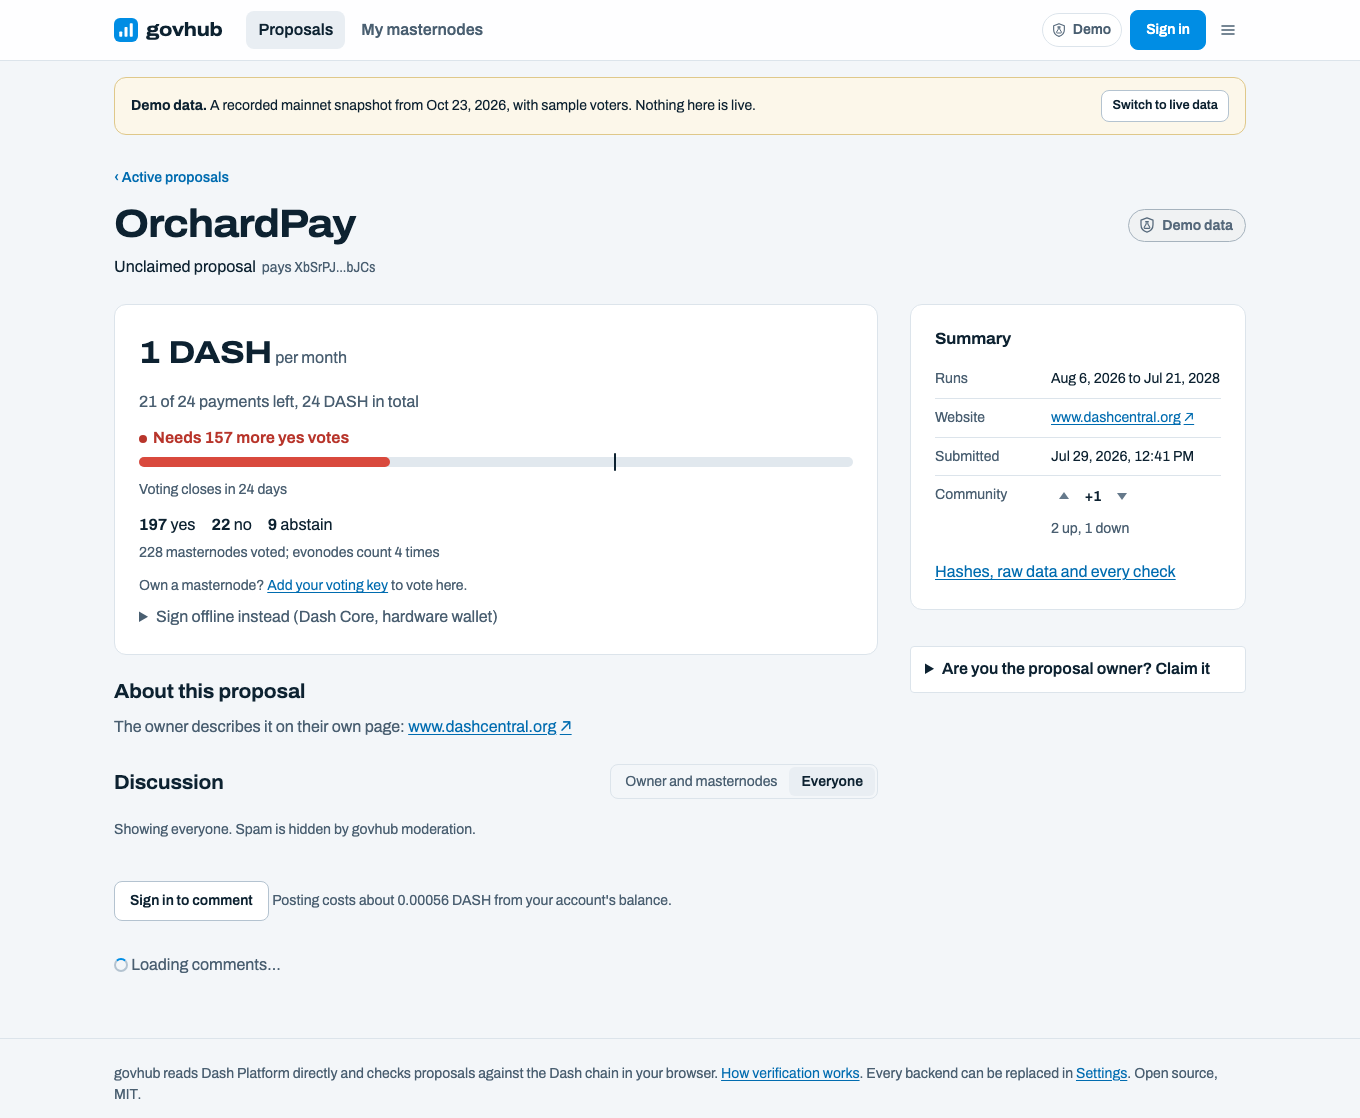
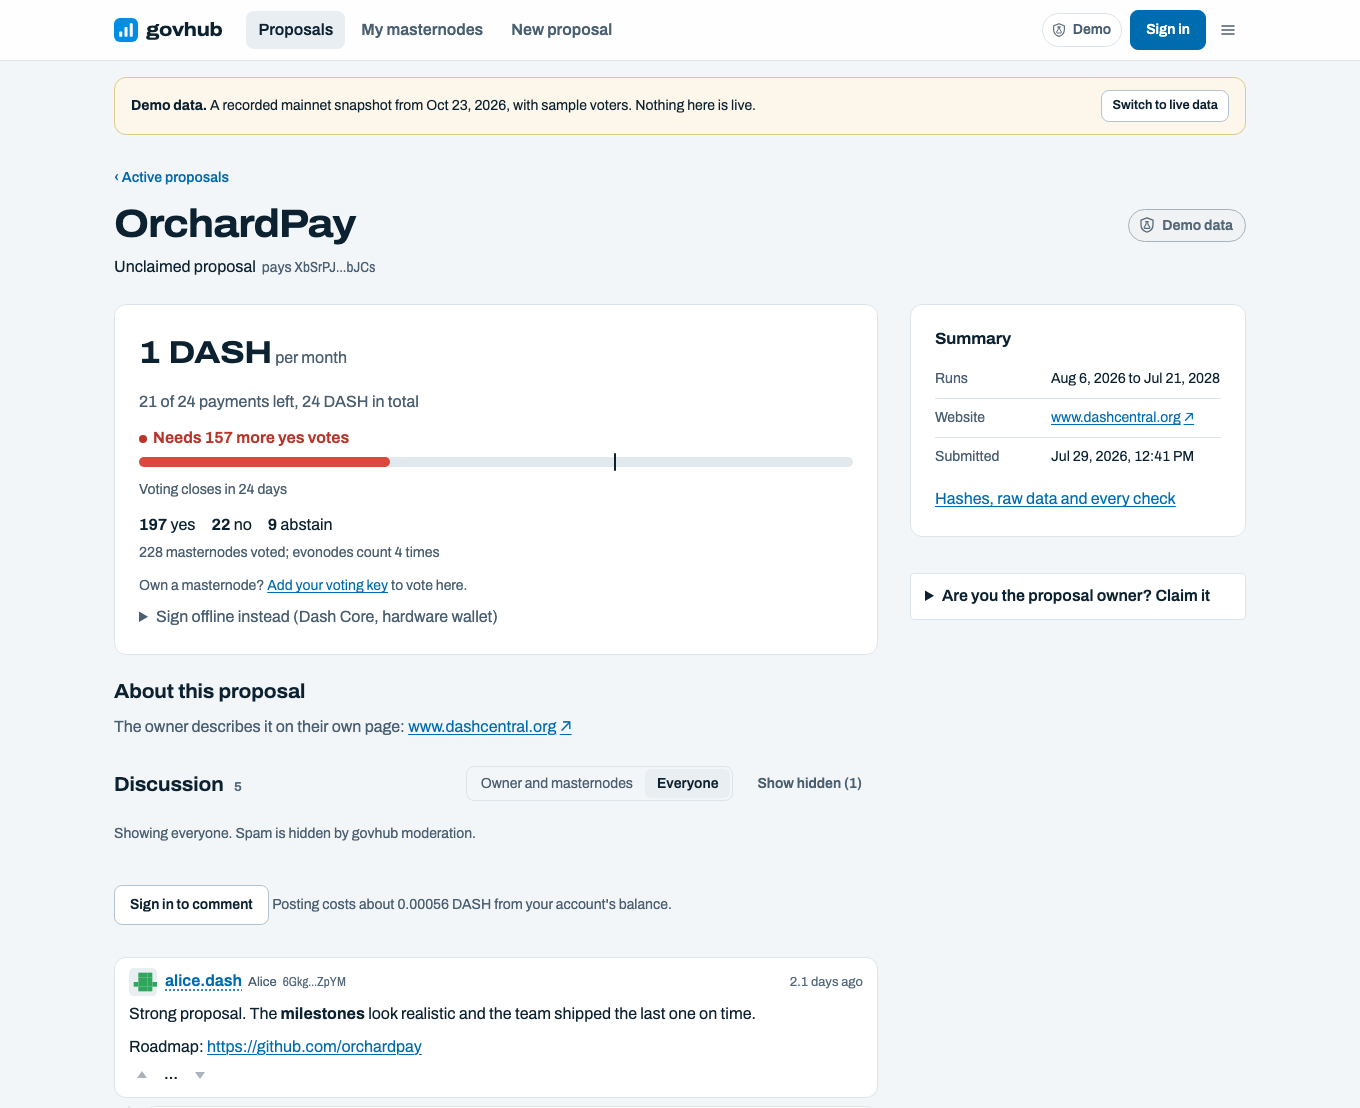
feat(web)!: remove proposal community votes
The owner decided the only voting on a proposal is the masternode network
vote. Remove the "Community" up/down row from the proposal Summary card,
its CSS and fixture reactions, and narrow the shared reaction code
(forum ops.react, targetB64, REACTION_KIND, useReactions) to comment
targets. Comment up/down reactions are unchanged. The forum contract's
reaction document type is untouched.

Docs: PLAN notes the removal; TRUST, DESIGN and the contracts README no
longer describe proposal community votes.

diff --git a/apps/web/src/ui/useReactions.ts b/apps/web/src/ui/useReactions.ts
@@ -1,4 +1,4 @@
-// Reactions on a set of targets (a proposal, or the comments on screen): read with F6 (paged, 4 targets in flight),
+// Reactions on a set of targets (the comments on screen): read with F6 (paged, 4 targets in flight),
 // scored client-side, and voted on through the session with local updates so the UI does not wait for a node
 // that lags behind the write. Each target is read once per data source: a growing set (more comments shown) reads only the
 // new targets. F6 stays one query per target: no PV13 index takes an `in` over targets for every author (`in` must be on an
@@ -10,17 +10,15 @@ import { useApp } from '../app/context.tsx';
 import { useForum } from '../app/forum.tsx';
 import { errText } from '../lib/format.ts';
 
-export type Target = { govHash: string } | { commentId: string };
-const keyOf = (t: Target) => ('govHash' in t ? t.govHash : t.commentId);
-const hexOf = (t: Target) => ('govHash' in t ? t.govHash : idToHex(t.commentId));
-const kindOf = (t: Target) => ('govHash' in t ? REACTION_KIND.proposal : REACTION_KIND.comment);
+type Target = { commentId: string };
+const hexOf = (t: Target) => idToHex(t.commentId);
 
 export function useReactions(targets: readonly Target[]) {
   const { source } = useApp();
   const { forum, session, write, moderation } = useForum();
   const [byKey, setByKey] = useState(new Map<string, Reaction[]>());
   const [error, setError] = useState<string | null>(null);
-  const keys = targets.map(keyOf).join(',');
+  const keys = targets.map((t) => t.commentId).join(',');
   /** targets read (or being read) from this data source */
   const requested = useRef<{ forum: typeof forum; keys: Set<string> }>({ forum, keys: new Set() });
 
@@ -30,17 +28,17 @@ export function useReactions(targets: readonly Target[]) {
       setByKey(new Map());
     }
     const asked = requested.current;
-    const todo = targets.filter((t) => !asked.keys.has(keyOf(t)));
+    const todo = targets.filter((t) => !asked.keys.has(t.commentId));
     if (todo.length === 0) return;
-    for (const t of todo) asked.keys.add(keyOf(t));
+    for (const t of todo) asked.keys.add(t.commentId);
     setError(null);
     // Per target: one failed read must not drop the others' results.
     mapLimit(todo, 4, async (t) => {
       try {
-        return { key: keyOf(t), reactions: await forum.reader.reactions(targetB64(t)) };
+        return { key: t.commentId, reactions: await forum.reader.reactions(targetB64(t)) };
       } catch (e) {
-        asked.keys.delete(keyOf(t)); // read again when the target set next changes
-        return { key: keyOf(t), error: e };
+        asked.keys.delete(t.commentId); // read again when the target set next changes
+        return { key: t.commentId, error: e };
       }
     }).then((results) => {
       if (requested.current !== asked) return;
@@ -56,8 +54,9 @@ export function useReactions(targets: readonly Target[]) {
     const out = new Map<string, Score>();
     for (const t of targets) {
       // A target not read yet has no score: voting then would create a second reaction instead of flipping the first.
-      if (!byKey.has(keyOf(t))) continue;
-      out.set(keyOf(t), score(byKey.get(keyOf(t)) ?? [], { kind: kindOf(t), target: hexOf(t), viewer: session?.identityId ?? null, exclude: moderation.index.identityHidden }));
+      const reactions = byKey.get(t.commentId);
+      if (!reactions) continue;
+      out.set(t.commentId, score(reactions, { kind: REACTION_KIND.comment, target: hexOf(t), viewer: session?.identityId ?? null, exclude: moderation.index.identityHidden }));
     }
     return out;
     // eslint-disable-next-line react-hooks/exhaustive-deps
@@ -66,14 +65,14 @@ export function useReactions(targets: readonly Target[]) {
   const vote = useCallback(
     async (t: Target, value: 1 | -1) => {
       if (!session) throw new Error('sign in to vote');
-      const k = keyOf(t);
+      const k = t.commentId;
       const mine = scores.get(k)?.mine;
       const op = forum.ops.react(t, value, mine);
       const r = await write(op);
       const now = source.now() * 1000 || Date.now();
       setByKey((m) => {
         const list = (m.get(k) ?? []).filter((x) => x.ownerId !== session.identityId);
-        if (op.action !== 'delete') list.push({ id: r.id, ownerId: session.identityId, target: hexOf(t), kind: kindOf(t), value, revision: r.revision ?? 1, createdAt: mine?.createdAt ?? now, updatedAt: now });
+        if (op.action !== 'delete') list.push({ id: r.id, ownerId: session.identityId, target: hexOf(t), kind: REACTION_KIND.comment, value, revision: r.revision ?? 1, createdAt: mine?.createdAt ?? now, updatedAt: now });
         return new Map(m).set(k, list);
       });
     },

diff --git a/packages/forum/test/data.test.ts b/packages/forum/test/data.test.ts
@@ -75,7 +75,7 @@ describe('writes and reads through the linted queries', () => {
     const c = ops.comment(H, 'x');
     expect(c.action === 'create' && typeof c.data.$createdAt).toBe('number');
     expect(c.action === 'create' && c.data.$updatedAt).toBeUndefined();
-    const r = ops.react({ govHash: H }, 1);
+    const r = ops.react({ commentId: ALICE }, 1);
     expect(r.action === 'create' && typeof r.data.$updatedAt).toBe('number');
     const p = ops.profile({ displayName: 'a' });
     expect(p.action === 'create' && p.data.$createdAt).toBeUndefined();
@@ -103,22 +103,22 @@ describe('writes and reads through the linted queries', () => {
     expect(clear.action).toBe('delete');
     store.apply(BOB, clear);
     expect(score(await reader.reactions(target), { kind: 1, target: tHex, viewer: BOB }).mine).toBeUndefined();
-    const mine = await reader.myReactions(ALICE, [target, targetB64({ govHash: H })]);
+    const mine = await reader.myReactions(ALICE, [target, targetB64({ commentId: ALICE })]);
     expect([...mine.keys()]).toEqual([tHex]);
   });
 
   it('score ignores other kinds and targets, keeps one per owner and can exclude blocked owners (never the viewer)', () => {
     const base = { id: 'x', revision: 1, createdAt: 1, updatedAt: 1 };
     const rs = [
-      { ...base, ownerId: ALICE, target: H, kind: 2, value: 1 as const },
-      { ...base, ownerId: ALICE, target: H, kind: 2, value: -1 as const, updatedAt: 5 },
-      { ...base, ownerId: BOB, target: H, kind: 2, value: 1 as const },
-      { ...base, ownerId: MOD, target: H, kind: 1, value: 1 as const },
-      { ...base, ownerId: MOD, target: H2, kind: 2, value: 1 as const },
+      { ...base, ownerId: ALICE, target: H, kind: 1, value: 1 as const },
+      { ...base, ownerId: ALICE, target: H, kind: 1, value: -1 as const, updatedAt: 5 },
+      { ...base, ownerId: BOB, target: H, kind: 1, value: 1 as const },
+      { ...base, ownerId: MOD, target: H, kind: 2, value: 1 as const }, // a retired kind (proposal community vote) is ignored
+      { ...base, ownerId: MOD, target: H2, kind: 1, value: 1 as const },
     ];
-    expect(score(rs, { kind: 2, target: H })).toMatchObject({ up: 1, down: 1 });
-    expect(score(rs, { kind: 2, target: H, exclude: (o) => o === BOB })).toMatchObject({ up: 0, down: 1 });
-    expect(score(rs, { kind: 2, target: H, viewer: BOB, exclude: (o) => o === BOB })).toMatchObject({ up: 1, down: 1 });
+    expect(score(rs, { kind: 1, target: H })).toMatchObject({ up: 1, down: 1 });
+    expect(score(rs, { kind: 1, target: H, exclude: (o) => o === BOB })).toMatchObject({ up: 0, down: 1 });
+    expect(score(rs, { kind: 1, target: H, viewer: BOB, exclude: (o) => o === BOB })).toMatchObject({ up: 1, down: 1 });
   });
 
   it('profiles, claims, posts, blocks and subscriptions round-trip', async () => {

diff --git a/apps/web/src/pages/ProposalPage.tsx b/apps/web/src/pages/ProposalPage.tsx
@@ -5,7 +5,6 @@ import { useMemo, useState } from 'react';
 import { Link, useParams } from 'react-router-dom';
 import { urlClaimIdentity } from '@govhub/verify';
 import { useApp } from '../app/context.tsx';
-import { useForum } from '../app/forum.tsx';
 import { Discussion } from '../ui/Discussion.tsx';
 import { ErrorBoundary } from '../ui/ErrorBoundary.tsx';
 import { ReadError } from '../ui/ReadError.tsx';
@@ -13,12 +12,9 @@ import { FundingMeter } from '../ui/FundingMeter.tsx';
 import { LameDuckPageStatus } from '../ui/LameDuck.tsx';
 import { StartsLaterPageStatus } from '../ui/StartsLater.tsx';
 import { ClaimPanel, OwnerPost, OwnerValue, RejectedClaims, useOwnership, useOwnerPost } from '../ui/Ownership.tsx';
-import { openSignIn } from '../ui/SignIn.tsx';
 import { TrustBadge } from '../ui/trust/TrustBadge.tsx';
 import { useProposalTrust } from '../ui/trust/useProposalTrust.ts';
 import { VerificationDrawer } from '../ui/trust/VerificationDrawer.tsx';
-import { useReactions } from '../ui/useReactions.ts';
-import { Votes } from '../ui/Votes.tsx';
 import { OfflineSign, ProposalVotePanel } from '../ui/VotePanel.tsx';
 import { useAsync } from '../ui/hooks.ts';
 import type { Proposal, Sourced } from '../data/types.ts';
@@ -90,24 +86,6 @@ function NotFound({ what }: { what: string }) {
         Platform has no record of {what}. It may not be published yet. <Link to="/">Back to active proposals</Link>
       </p>
     </section>
-  );
-}
-
-/** Community up/down vote on the proposal (`reaction` kind 2): not a masternode funding vote. */
-function CommunityVote({ govHash }: { govHash: string }) {
-  const { session } = useForum();
-  const targets = useMemo(() => [{ govHash }], [govHash]);
-  const { scores, vote, error } = useReactions(targets);
-  const read = scores.get(govHash);
-  const s = read ?? { up: 0, down: 0, net: 0 };
-  return (
-    <div className="community-vote" data-testid="community-vote">
-      <Votes score={read} signedIn={!!session} label="Community vote on this proposal" onVote={(v) => (session ? vote({ govHash }, v) : (openSignIn(), Promise.resolve()))} />
-      <span className="small muted">
-        {s.up} up, {s.down} down
-      </span>
-      {error && <span className="error small">{error}</span>}
-    </div>
   );
 }
 
@@ -312,12 +290,6 @@ export function ProposalView({ sp }: { sp: Sourced<Proposal> }) {
               <div>
                 <dt>Submitted</dt>
                 <dd>{formatDateTime(p.time)}</dd>
-              </div>
-              <div>
-                <dt>Community</dt>
-                <dd>
-                  <CommunityVote govHash={p.govHash} />
-                </dd>
               </div>
             </dl>
             <button type="button" className="linkish small" onClick={() => setDrawer(true)}>

diff --git a/apps/web/src/data/fixtureForum.ts b/apps/web/src/data/fixtureForum.ts
@@ -46,7 +46,7 @@ export async function seedFixtureForum(store: MemoryStore, registry: Registry, n
   const data = (op: ReturnType<typeof ops.comment>): DocData => (op.action === 'create' ? op.data : {});
   const comment = (owner: string, govHash: string, body: string, hoursAgo: number, parentId?: string, fmt = 1) =>
     store.seed('forum', 'comment', owner, data(ops.comment(govHash, body, { fmt, ...(parentId ? { parentId } : {}) })), at(hoursAgo));
-  const react = (owner: string, target: { govHash: string } | { commentId: string }, value: 1 | -1, hoursAgo: number) =>
+  const react = (owner: string, target: { commentId: string }, value: 1 | -1, hoursAgo: number) =>
     store.seed('forum', 'reaction', owner, data(ops.react(target, value)), at(hoursAgo));
 
   store.seed('forum', 'profile', alice, { displayName: 'Alice', about: 'DashCentral regular since 2017' });
@@ -72,9 +72,6 @@ export async function seedFixtureForum(store: MemoryStore, registry: Registry, n
   react(carol, { commentId: c1 }, 1, 29);
   react(dave, { commentId: c1 }, -1, 19);
   react(spammer, { commentId: c1 }, -1, 5);
-  react(bob, { govHash: op }, 1, 43);
-  react(carol, { govHash: op }, 1, 28);
-  react(dave, { govHash: op }, -1, 18);
 
   // Default moderation list: the spammer's identity.
   store.seed('mod', 'block', registry.forum.moderationIdentityId, { target: idToBytes(spammer), kind: 1, reason: 'spam' }, at(5));

diff --git a/packages/forum/test/queries.test.ts b/packages/forum/test/queries.test.ts
@@ -38,9 +38,9 @@ describe('every forum/mod/gov query the data layer sends passes the PV13 lint on
     ['F2d', commentsSince(H, 1_792_807_000_000), 'byProposal'],
     ['F3', commentsBy(ID), 'byAuthor'],
     ['F5', myReactionOn(ID, targetB64({ commentId: DOC })), 'byOwnerTarget'],
-    ['F5b', myReactionsOn(ID, [targetB64({ govHash: H }), targetB64({ commentId: DOC })]), 'byOwnerTarget'],
+    ['F5b', myReactionsOn(ID, [targetB64({ commentId: ID }), targetB64({ commentId: DOC })]), 'byOwnerTarget'],
     ['F6 comment', reactionsOn(targetB64({ commentId: DOC })), 'byTarget'],
-    ['F6 proposal paged', reactionsOn(targetB64({ govHash: H }), DOC), 'byTarget'],
+    ['F6 comment paged', reactionsOn(targetB64({ commentId: ID }), DOC), 'byTarget'],
     ['F7', claimsOf(H), 'byProposal'],
     ['F8', postOf(H, ID), 'byProposalOwner'],
     ['F10', blocksOf('forum', ID), 'byOwnerTarget'],
@@ -59,7 +59,7 @@ describe('every forum/mod/gov query the data layer sends passes the PV13 lint on
   });
 
   it('F6 carries the orderBy that pins byTarget (without it PV13 picks the gapped byOwnerTarget and returns [])', () => {
-    const { q } = reactionsOn(targetB64({ govHash: H }));
+    const { q } = reactionsOn(targetB64({ commentId: DOC }));
     expect(q.orderBy?.at(-1)?.[0]).toBe('$createdAt');
     const r = lintQuery(SCHEMAS.forum, { ...q, orderBy: undefined });
     expect(r.ok).toBe(false);

diff --git a/packages/forum/src/ops.ts b/packages/forum/src/ops.ts
@@ -65,12 +65,10 @@ export function forumOps(contracts: ForumContracts, now: () => number = Date.now
     },
     retractComment: (id: string) => del('forum', 'comment', id),
 
-    /** Up/down vote. With an existing reaction: same value = clear (delete), other value = flip (replace). */
-    react(target: { govHash: string } | { commentId: string }, value: 1 | -1, existing?: Pick<Reaction, 'id' | 'revision' | 'value'>): DocumentOp {
+    /** Up/down vote on a comment. With an existing reaction: same value = clear (delete), other value = flip (replace). */
+    react(target: { commentId: string }, value: 1 | -1, existing?: Pick<Reaction, 'id' | 'revision' | 'value'>): DocumentOp {
       if (existing && existing.value === value) return del('forum', 'reaction', existing.id);
-      const kind = 'govHash' in target ? REACTION_KIND.proposal : REACTION_KIND.comment;
-      const bytes = 'govHash' in target ? hash(target.govHash) : idToBytes(target.commentId);
-      const data = { target: bytes, kind, value };
+      const data = { target: idToBytes(target.commentId), kind: REACTION_KIND.comment, value };
       return existing ? replace('forum', 'reaction', existing.id, existing.revision, data) : create('forum', 'reaction', data);
     },
     clearReaction: (id: string) => del('forum', 'reaction', id),

diff --git a/packages/forum/src/types.ts b/packages/forum/src/types.ts
@@ -11,7 +11,8 @@ export interface ForumContracts {
 export type ContractKey = keyof ForumContracts;
 
 export const COMMENT_FMT = { plain: 0, markdown: 1 } as const;
-export const REACTION_KIND = { comment: 1, proposal: 2 } as const;
+/** `reaction.kind`: only comments are reacted to. The contract still allows other kinds; 2 was the proposal community vote, which the app removed (the only votes on a proposal are masternode votes). It is neither written nor read, and 2 must not be reused for anything else. */
+export const REACTION_KIND = { comment: 1 } as const;
 export const BLOCK_KIND = { identity: 1, document: 2 } as const;
 /** `claim.method` / `claimAttestation.method` / the claim verifier's ranks (PLAN §6.3; lower = stronger): one table, owned by @govhub/verify. */
 export const CLAIM_METHOD = CLAIM_METHODS;
@@ -33,7 +34,7 @@ export interface Comment {
 export interface Reaction {
   id: string;
   ownerId: string;
-  /** hex of the 32 target bytes: a govHash, or a comment id's bytes */
+  /** hex of the 32 bytes of the target comment's id */
   target: string;
   kind: number;
   value: 1 | -1;

diff --git a/packages/forum/src/queries.ts b/packages/forum/src/queries.ts
@@ -67,8 +67,8 @@ export const commentsBy = (ownerId: string, startAfter?: string): ContractQuery 
   checked('forum', paged({ documentTypeName: 'comment', where: [['$ownerId', '==', ownerId], ['$createdAt', '>', 0]], orderBy: [['$ownerId', 'asc'], ['$createdAt', 'desc']], limit: PAGE }, startAfter));
 
 // ---- reaction ---------------------------------------------------------------------------------
-/** A reaction target as base64: a govHash (hex) or a comment id (base58). */
-export const targetB64 = (t: { govHash: string } | { commentId: string }): string => ('govHash' in t ? hexToB64(t.govHash) : idToB64(t.commentId));
+/** A reaction target as base64: a comment id (base58). */
+export const targetB64 = (t: { commentId: string }): string => idToB64(t.commentId);
 
 /** F6: every reaction on one target, oldest first; the orderBy pins `byTarget` (rule 1's ambiguity trap). */
 export const reactionsOn = (target: string, startAfter?: string): ContractQuery =>

diff --git a/apps/web/e2e/forum.spec.ts b/apps/web/e2e/forum.spec.ts
@@ -97,10 +97,8 @@ test.describe('discussion (fixtures)', () => {
     await down.click();
     await expect(bob.locator(':scope > article .vote-score')).toHaveText('0');
 
-    // Community vote on the proposal.
-    const cv = page.getByTestId('community-vote');
-    await cv.locator('.vote-up').click();
-    await expect(cv.locator('.vote-score')).toHaveText('+2');
+    // The proposal itself has no up/down vote: the only votes on it are masternode votes.
+    await expect(page.getByTestId('community-vote')).toHaveCount(0);
 
     // Block Bob for me (hide, not delete), then unblock.
     await bob.locator(':scope > article').getByText('Hide…').click();

diff --git a/apps/web/src/voting/funds.test.ts b/apps/web/src/voting/funds.test.ts
@@ -30,7 +30,7 @@ describe('F2: the up-front balance check', () => {
 
   it('measured kinds (comment, reaction create) need the fee plus the headroom; the others only their fee, never a guess', () => {
     const ID = 'D'.repeat(43);
-    const measured: DocumentOp[] = [comment52(), ops.react({ govHash: GOV }, 1), ops.react({ commentId: ID }, -1)];
+    const measured: DocumentOp[] = [comment52(), ops.react({ commentId: ID }, 1)];
     for (const op of measured) {
       expect(hasMeasuredHeadroom(op), op.type).toBe(true);
       expect(forumWriteRequired(op), op.type).toBe(BigInt(forumWriteFee(op)! + UPFRONT_HEADROOM));

diff --git a/apps/web/src/pages/ProposalPage.test.tsx b/apps/web/src/pages/ProposalPage.test.tsx
@@ -23,7 +23,6 @@ vi.mock('../app/context.tsx', () => ({
 }));
 vi.mock('../app/forum.tsx', () => ({ useForum: () => ({ session: null }) }));
 vi.mock('../voting/KeyringContext.tsx', () => ({ useKeyring: () => ({ status: hold.keyring }) }));
-vi.mock('../ui/useReactions.ts', () => ({ useReactions: () => ({ scores: new Map(), vote: async () => {}, error: null }) }));
 vi.mock('../ui/Discussion.tsx', () => ({ Discussion: () => null }));
 vi.mock('../ui/ReadError.tsx', () => ({ ReadError: () => null }));
 vi.mock('../ui/WriteError.tsx', () => ({ WriteError: () => null }));

diff --git a/apps/web/src/styles.css b/apps/web/src/styles.css
@@ -1676,12 +1676,6 @@ table {
 .ext::after {
   content: ' ↗';
 }
-.community-vote {
-  display: inline-flex;
-  align-items: center;
-  gap: var(--s-2);
-  flex-wrap: wrap;
-}
 .chooser {
   display: grid;
   gap: var(--s-2);
@@ -2468,12 +2462,6 @@ li[data-status='now'] > .fund-dot {
   flex-wrap: wrap;
 }
 
-.community-vote {
-  display: flex;
-  align-items: center;
-  gap: 0.625rem;
-  flex-wrap: wrap;
-}
 .votes {
   display: inline-flex;
   align-items: center;
